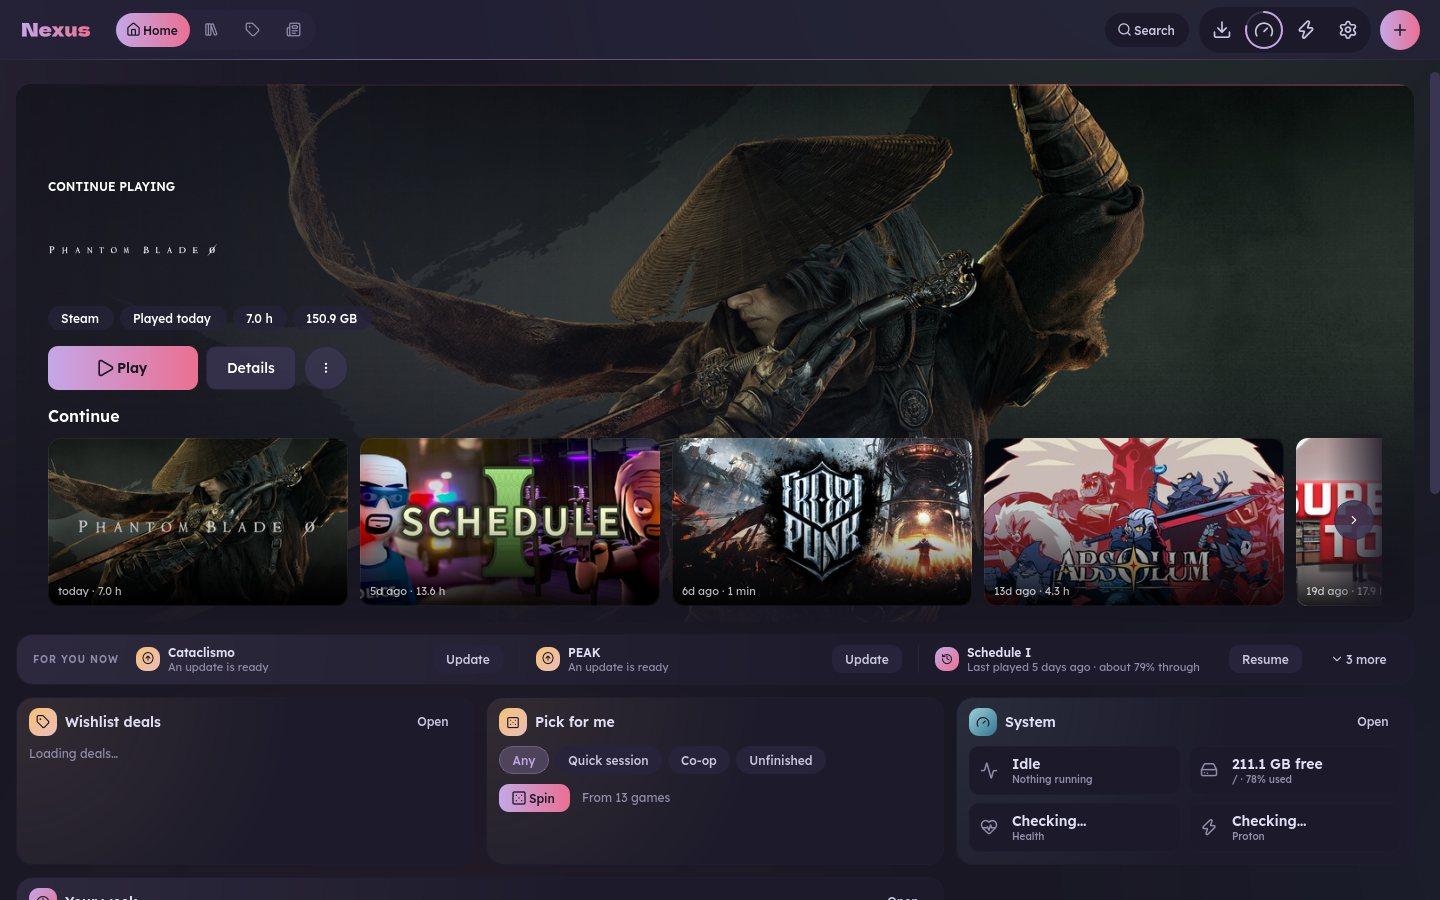
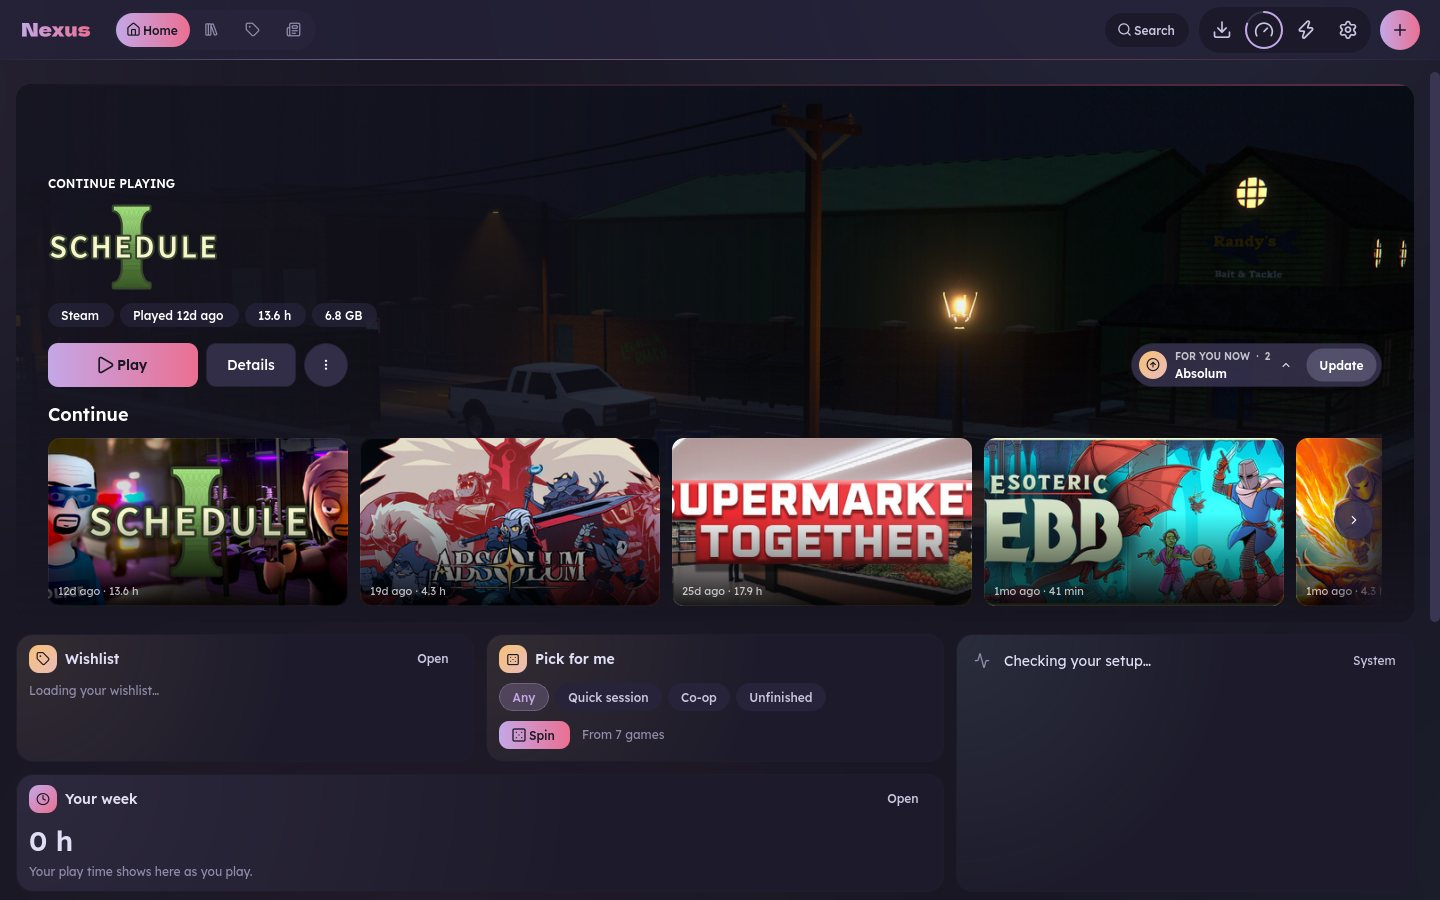
Nexus 0.5.6
What's new: Home without gaps, Customise beside Home, Friends: what to
play now, one Wishlist card, Play history fills in missed days, game
pages at a glance. README Home text and screenshots refreshed.

diff --git a/nexus/__init__.py b/nexus/__init__.py
@@ -2,4 +2,4 @@
 
 Shared library code for bin/nexus (GUI) and bin/nexus-cli (CLI). Stdlib only."""
 
-__version__ = "0.5.5"
+__version__ = "0.5.6"

diff --git a/README.md b/README.md
@@ -59,10 +59,13 @@ once. Games you own but haven't installed are there too, with an Install button.
 - **Home** opens on the *Stage*: the game you're on (or one you pin) over its art, a
   gradient or a plain card, in a Cinematic, Wide or Banner style. *For you now* sits beside
   Play with what to do next, like a finished download or a friend in a game you own. Below
-  it are widgets you can move, resize or hide: Your week, Pick for me (choose a vibe, Spin,
-  and the pick lands on the Stage), Friends (who's online), Your save (the Stage's game in
-  numbers), News, Upcoming releases and more. Start from a preset or save your own layouts,
-  and let Nexus switch between them by time of day. The big charts live in Play history.
+  it, widgets pack into columns with no gaps: Your week (compared with last week), Pick for
+  me (a vibe and Spin, or one pick a day), Friends (who's playing now, what you can play
+  together, their picks), Wishlist (sales and releases in one list, each saying why), Your
+  year, Backlog health, News (your games first) and more; System stays one quiet line until
+  something needs you. Customise opens as a panel beside Home: a gallery of live previews to
+  add from (or drag onto Home), Undo, and presets or your own layouts that can switch by time
+  of day. The big charts live in Play history.
 
 ### Install and manage games
 
